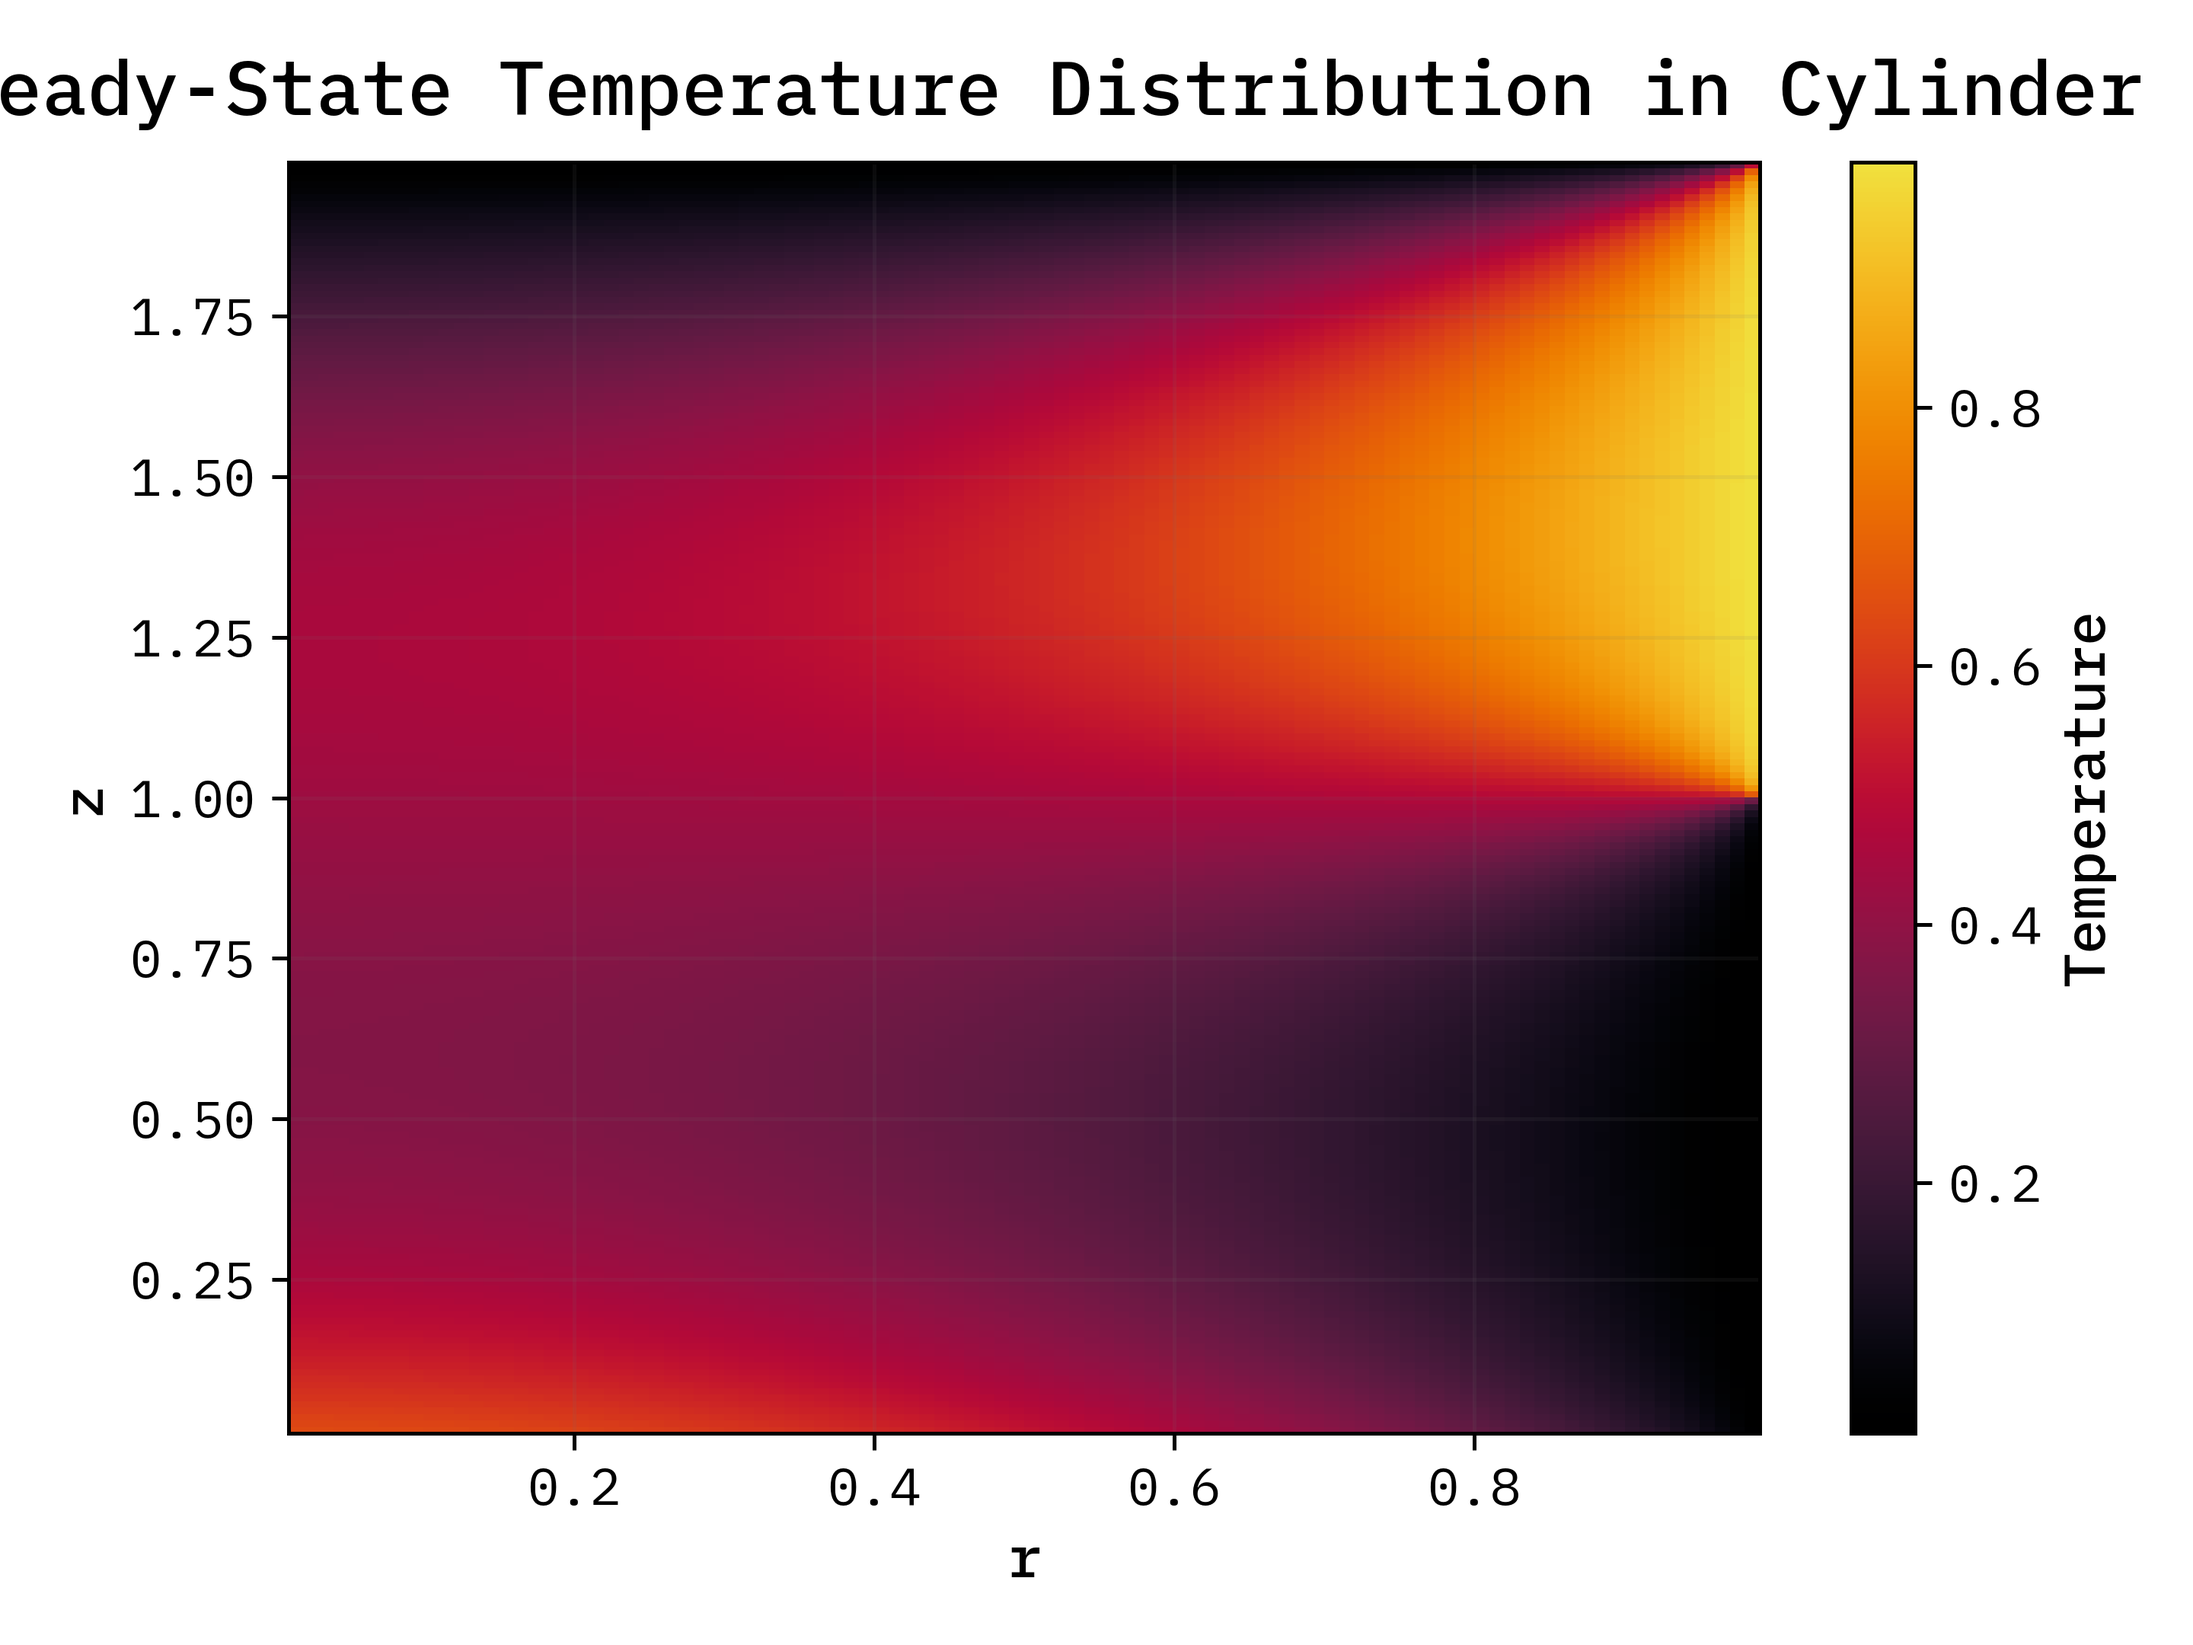
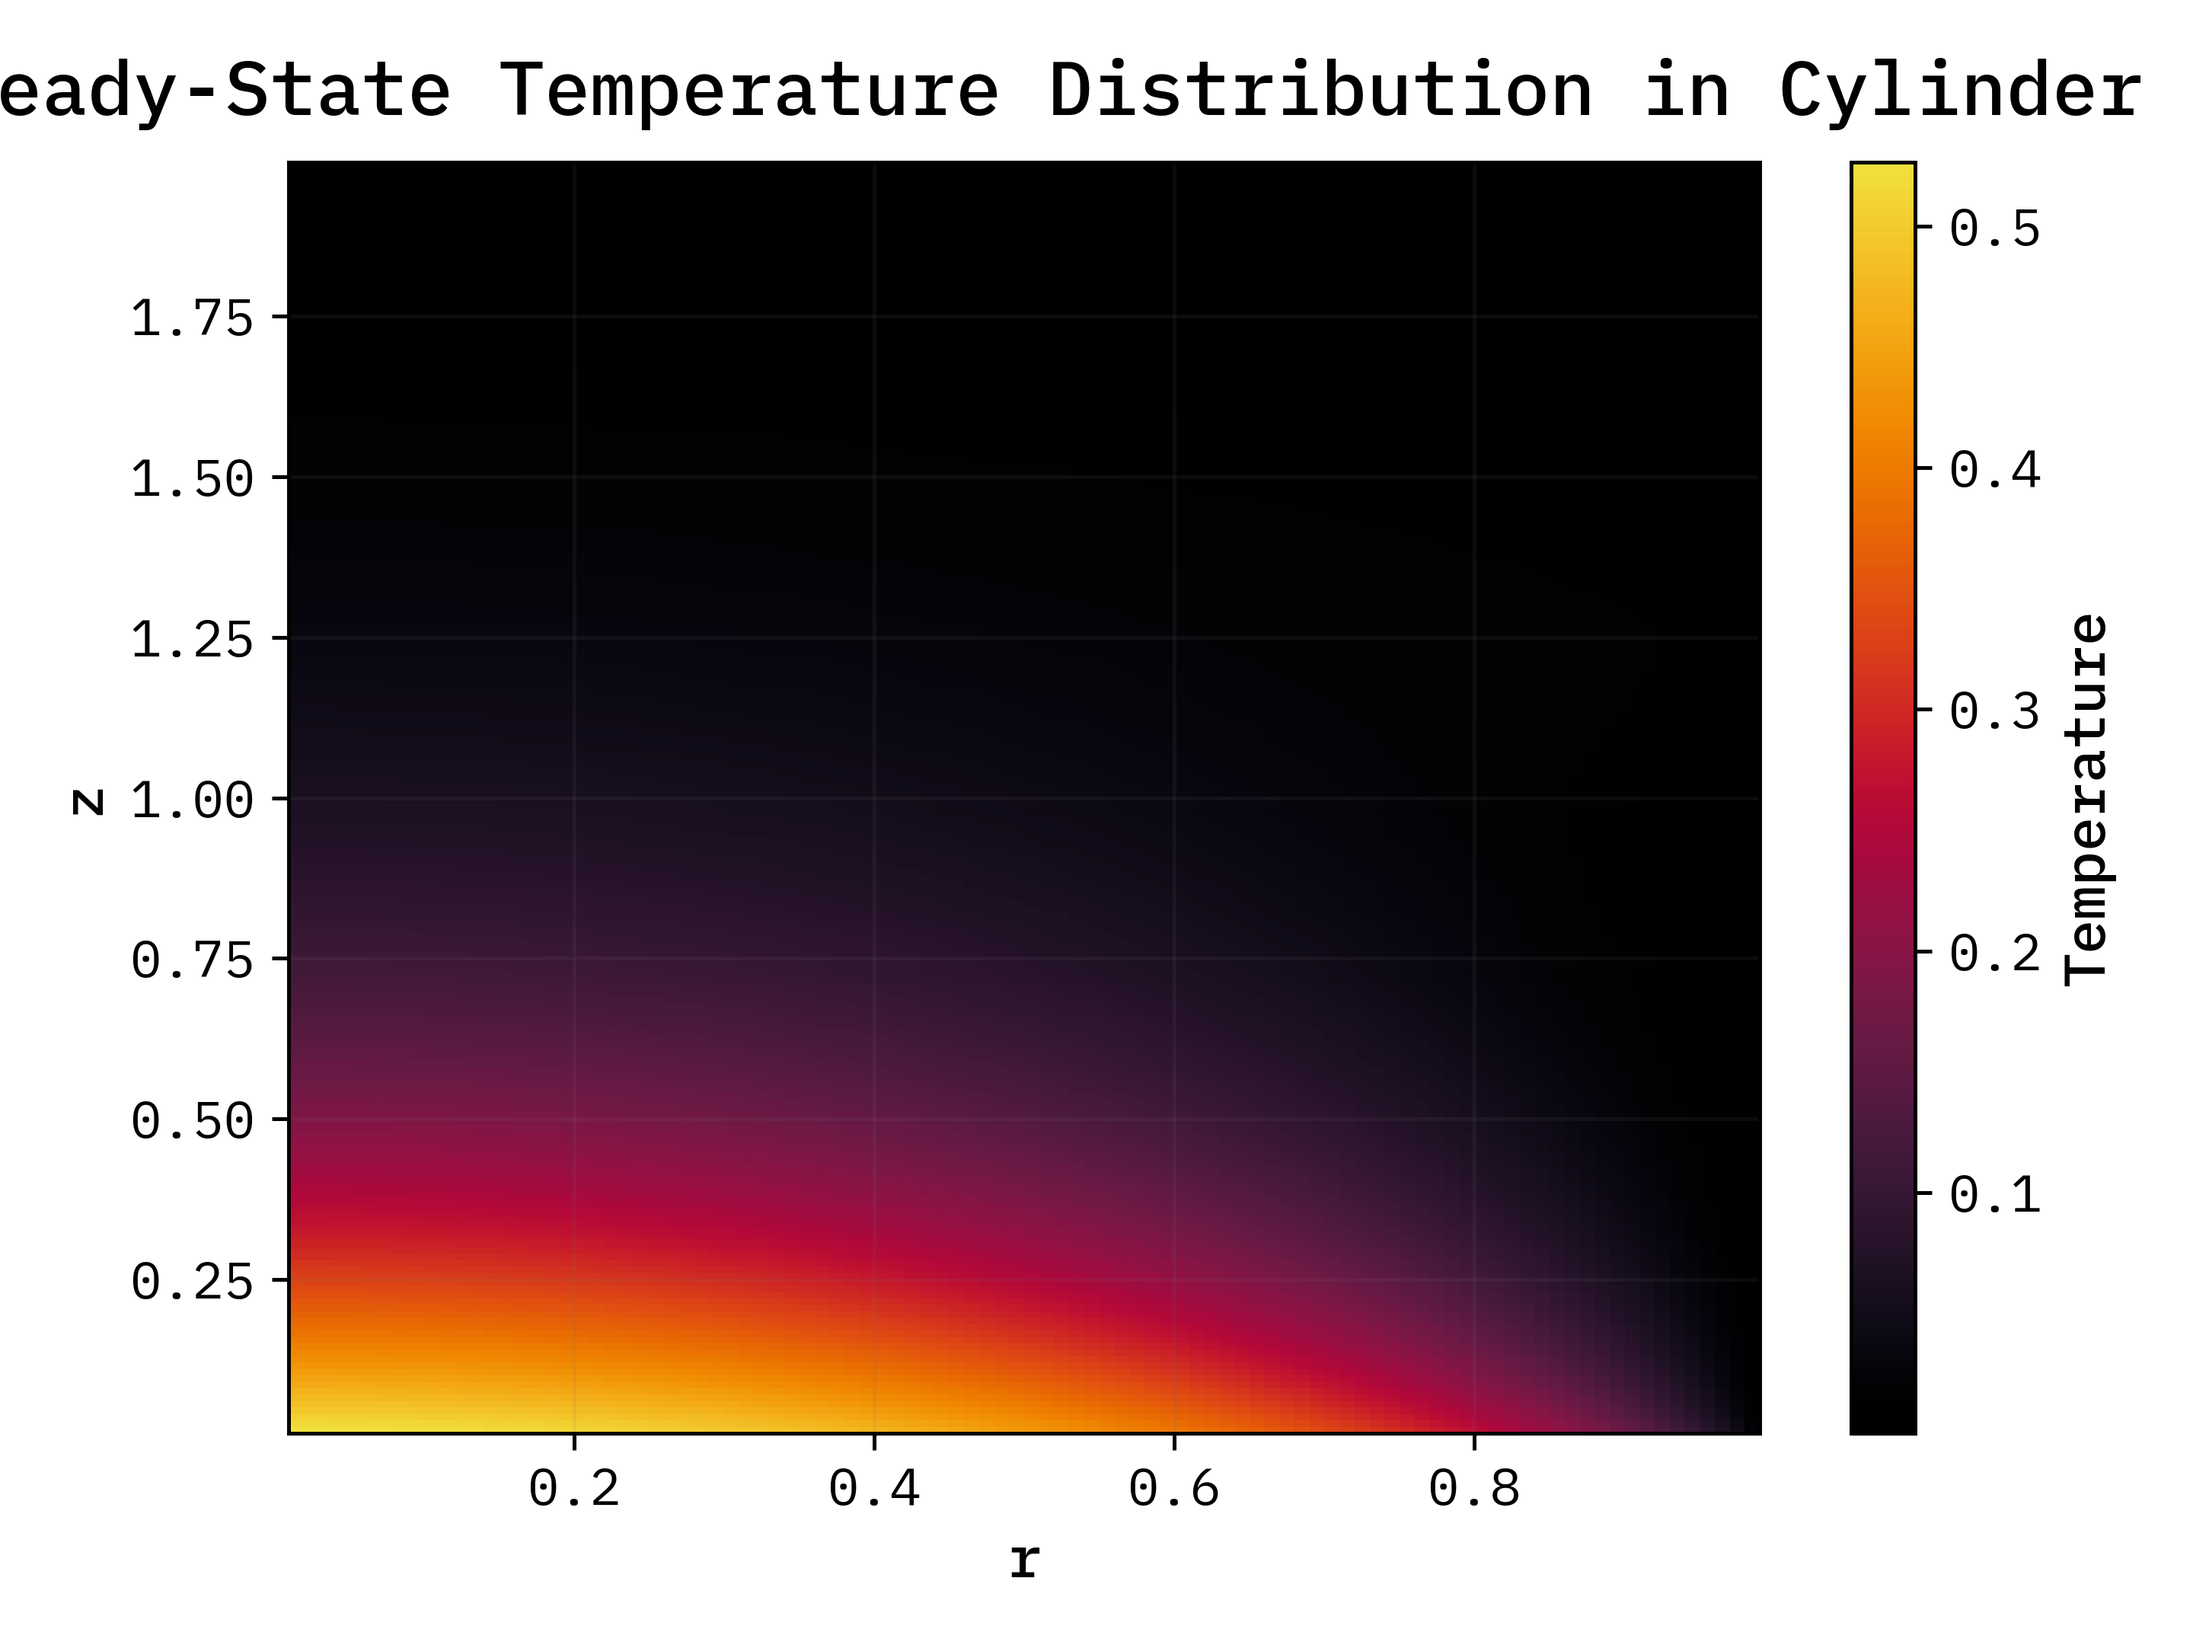
fix: :ambulance: call recv earlier for params in child of SORChunk otherwise None-type errors

diff --git a/Code/src.py b/Code/src.py
@@ -874,6 +874,8 @@ class CylindricalSORChunk(SORChunk):
                  comm: MPI.Comm,
                  params: dict = None,
                  verbose: bool = False) -> None:
+        if params is None:
+            params = comm.recv(source=0, tag=99)
 
         super().__init__(comm, params, verbose)
 

diff --git a/Code/test2.py b/Code/test2.py
@@ -39,7 +39,7 @@ if __name__ == "__main__":
         "inner":  "neumann",
         "outer": {
             "bottom_half": "dirichlet",
-            "top_half":    "dirichlet",
+            "top_half":    "neumann",
         }
 }
 
